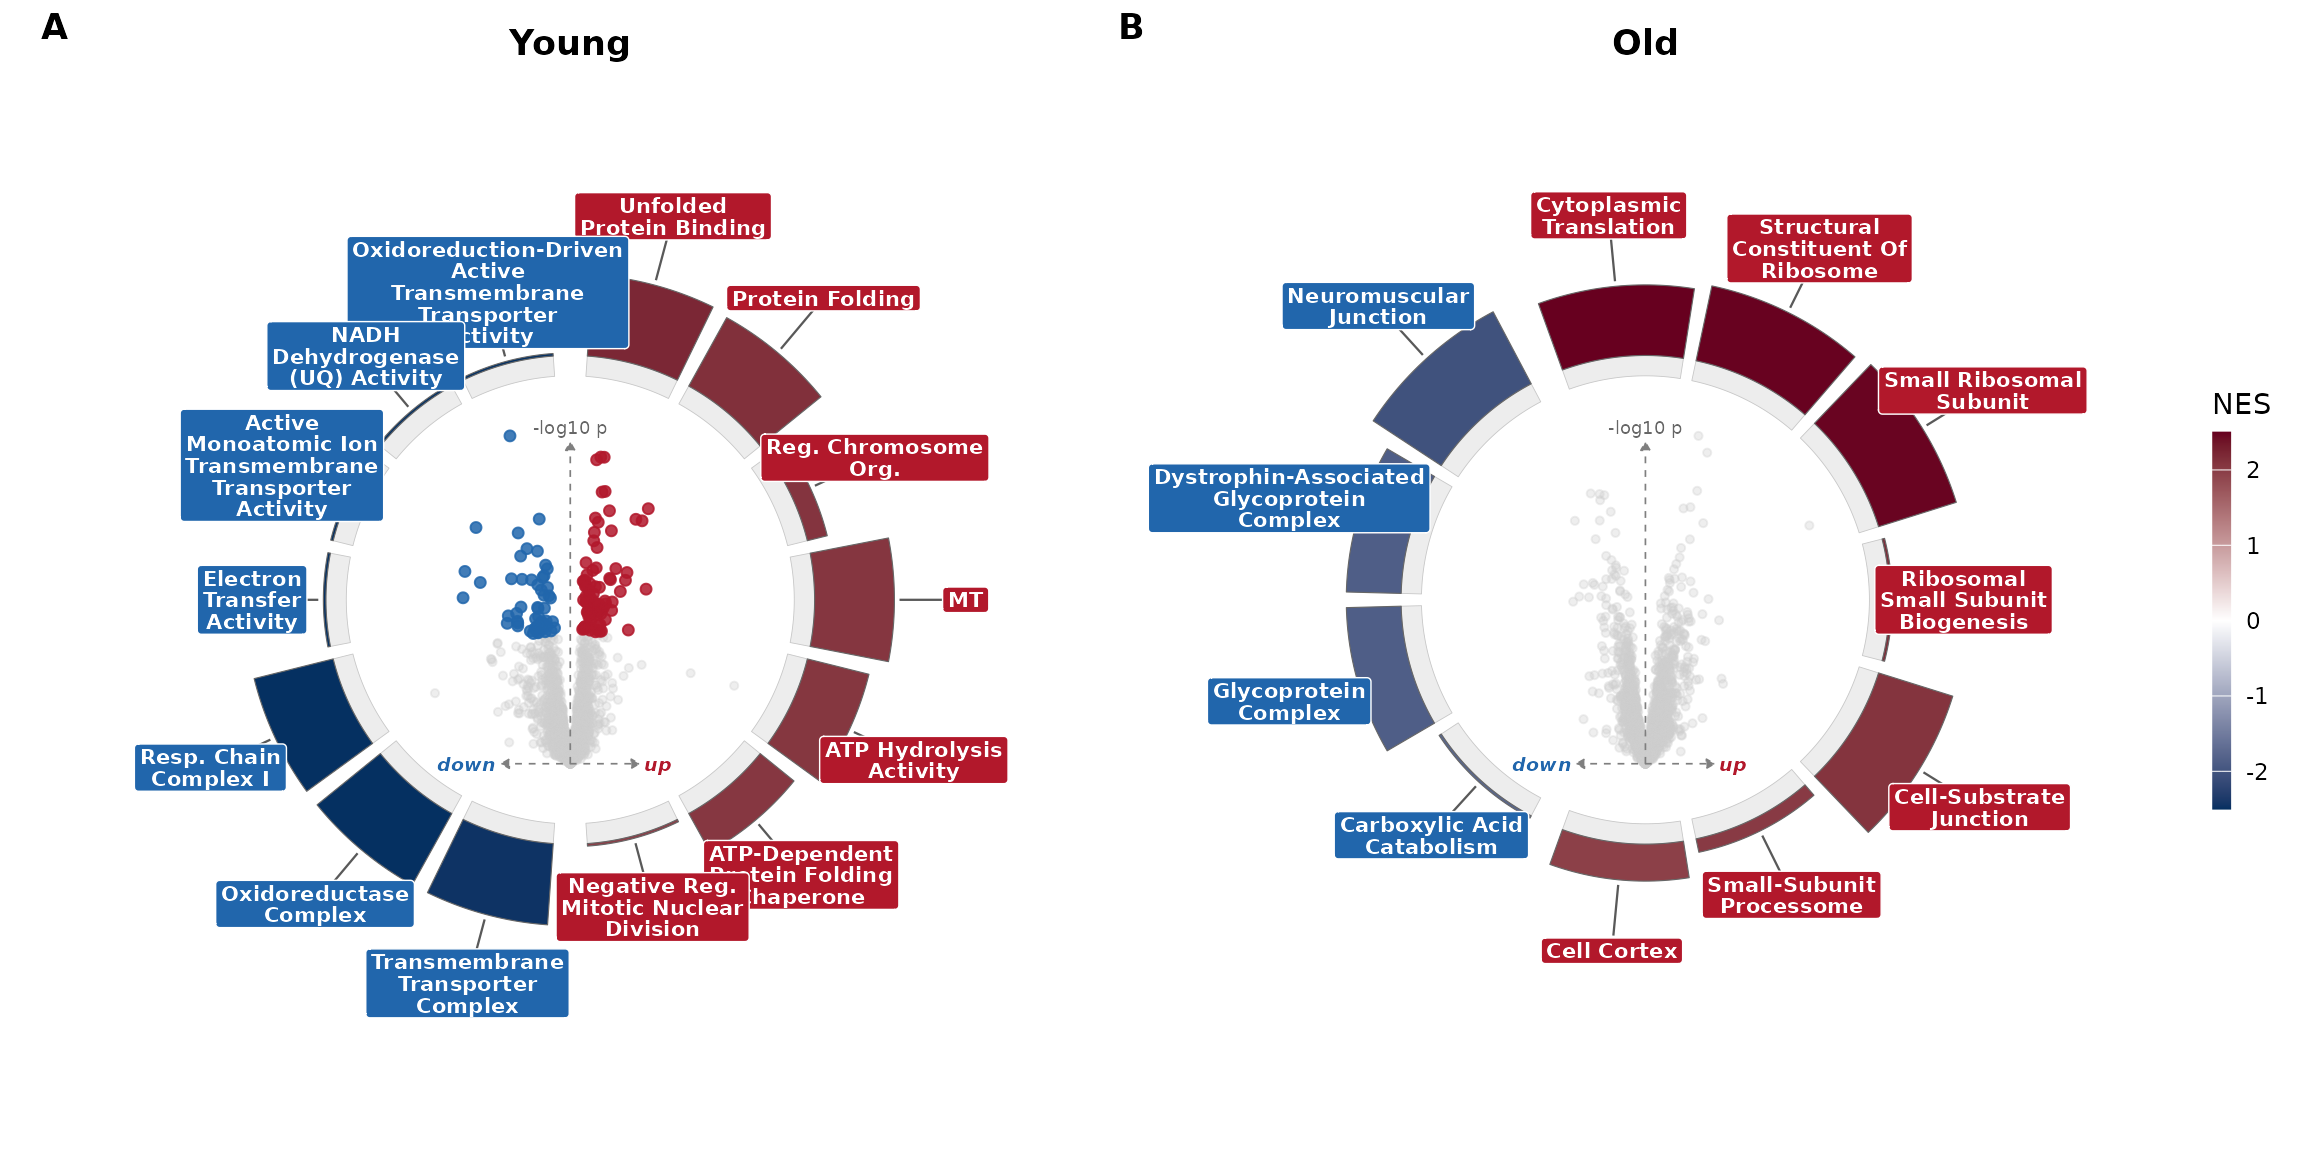
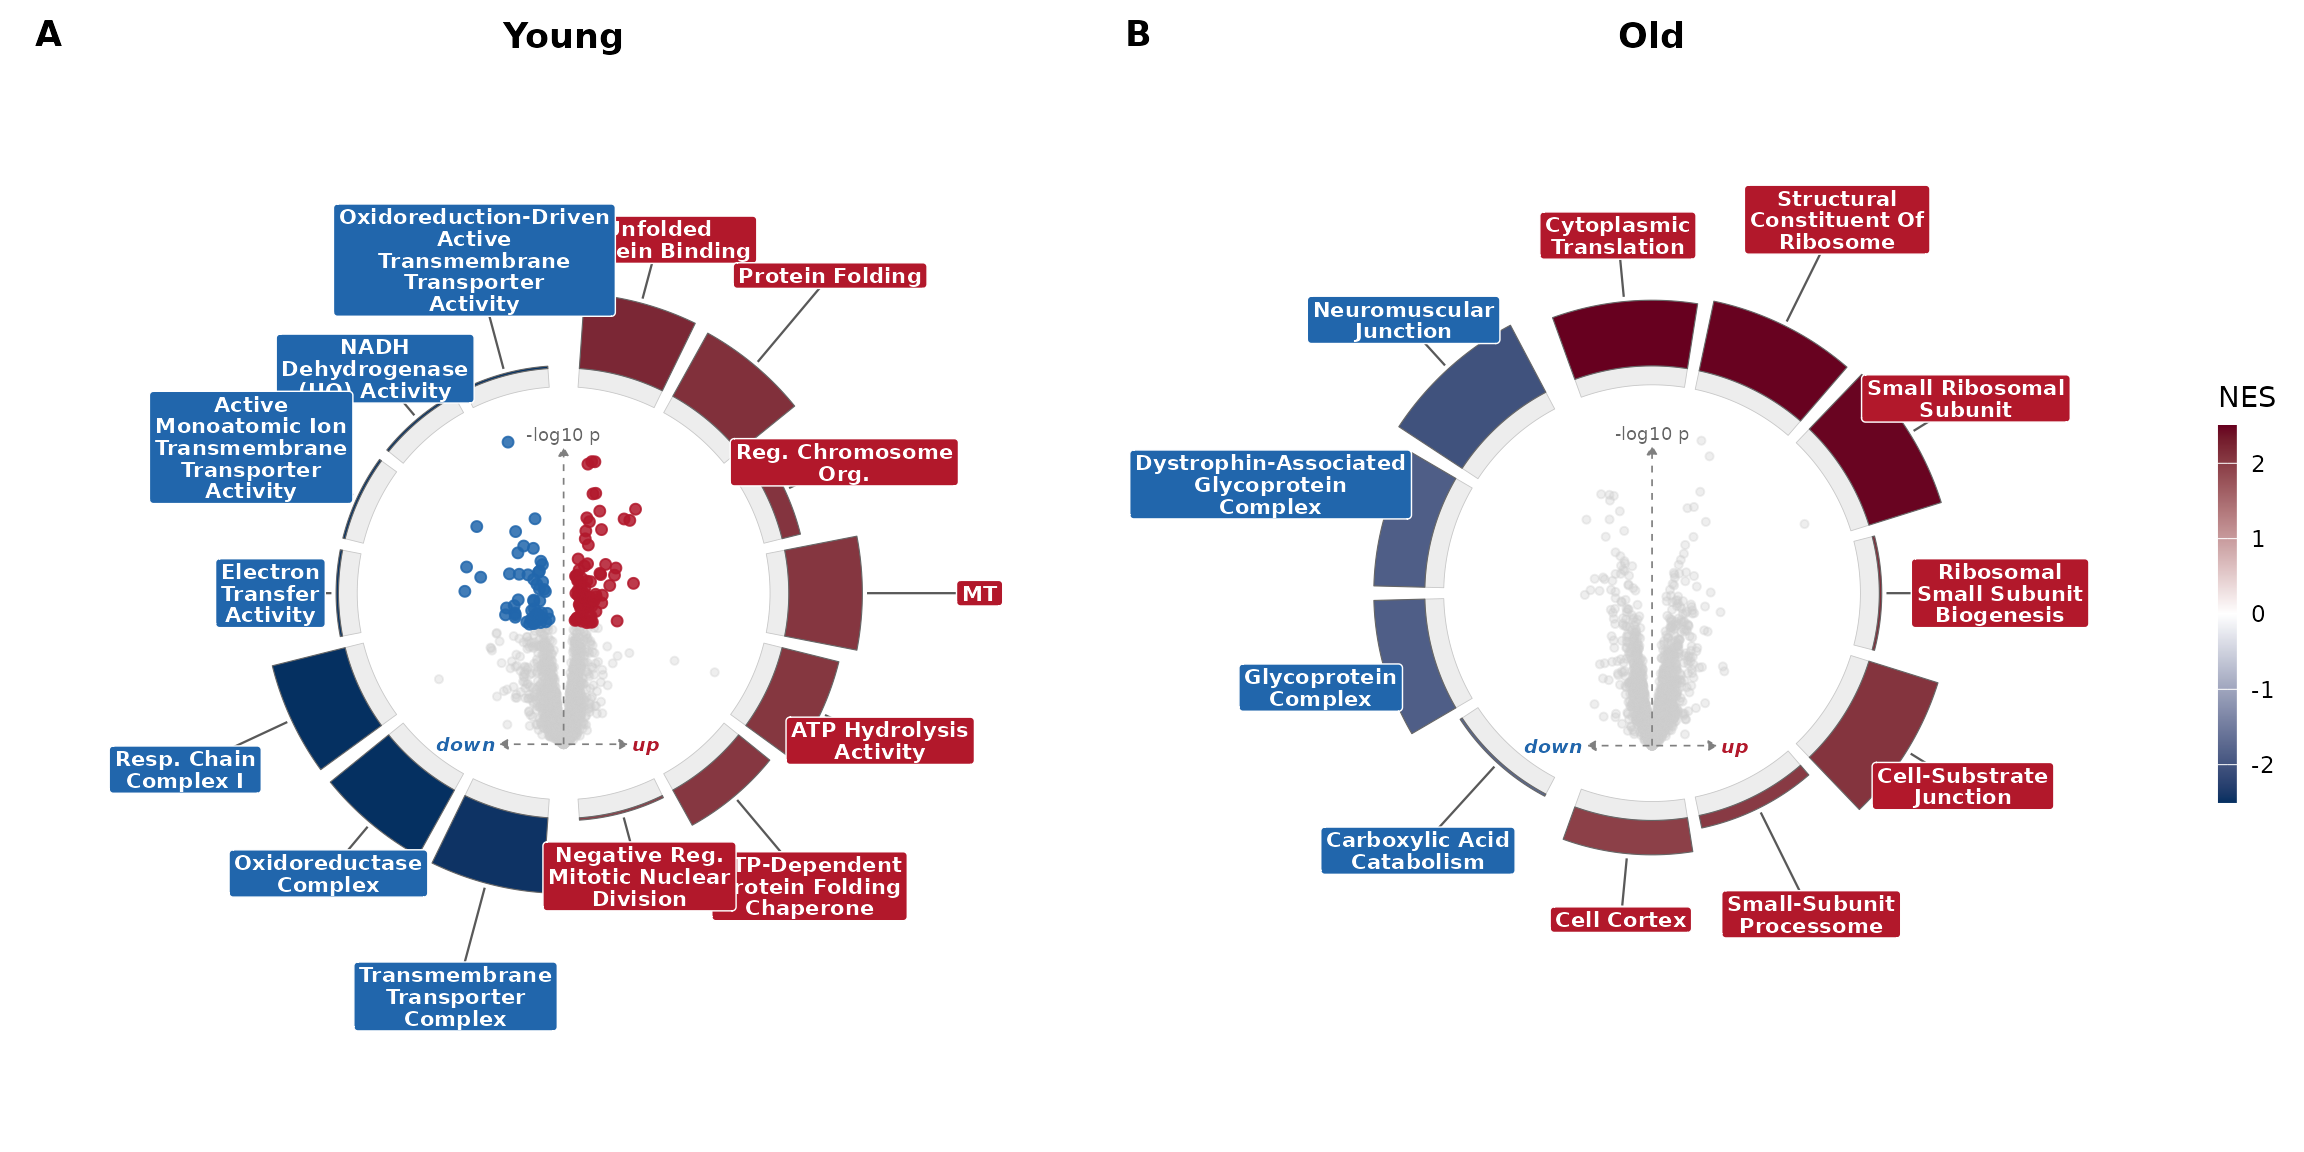
Deploying to gh-pages from @ Dustyn-T-Lewis/enrichVolcano@cf5d908692274f5671aea9d494acd05c800c321e 🚀

diff --git a/reference/volcano_ring.html b/reference/volcano_ring.html
@@ -70,6 +70,7 @@ arcs to each pathway's leading-edge genes inside the volcano.</p>
 <span>  subtitle <span class="op">=</span> <span class="cn">NULL</span>,</span>
 <span>  tag <span class="op">=</span> <span class="cn">NULL</span>,</span>
 <span>  volcano_radius <span class="op">=</span> <span class="fl">3.5</span>,</span>
+<span>  ring_radius <span class="op">=</span> <span class="fl">4.4</span>,</span>
 <span>  disc_color <span class="op">=</span> <span class="cn">NULL</span>,</span>
 <span>  nes_limits <span class="op">=</span> <span class="cn">NULL</span>,</span>
 <span>  magnitude <span class="op">=</span> <span class="fu"><a href="https://rdrr.io/r/base/c.html" class="external-link">c</a></span><span class="op">(</span><span class="st">"neg_log_padj"</span>, <span class="st">"size"</span><span class="op">)</span>,</span>
@@ -135,6 +136,11 @@ when <code>abs(logFC) &gt;= logfc_threshold</code> as well as significant.</p></
 
 <dt id="arg-volcano-radius">volcano_radius<a class="anchor" aria-label="anchor" href="#arg-volcano-radius"></a></dt>
 <dd><p>Inner volcano radius.</p></dd>
+
+
+<dt id="arg-ring-radius">ring_radius<a class="anchor" aria-label="anchor" href="#arg-ring-radius"></a></dt>
+<dd><p>Inner radius of the enrichment ring (default 4.4). Raise it
+to push the ring further out from the volcano / enlarge the ring.</p></dd>
 
 
 <dt id="arg-disc-color">disc_color<a class="anchor" aria-label="anchor" href="#arg-disc-color"></a></dt>

diff --git a/reference/volcano_ring.md b/reference/volcano_ring.md
@@ -25,6 +25,7 @@ volcano_ring(
   subtitle = NULL,
   tag = NULL,
   volcano_radius = 3.5,
+  ring_radius = 4.4,
   disc_color = NULL,
   nes_limits = NULL,
   magnitude = c("neg_log_padj", "size"),
@@ -89,6 +90,11 @@ volcano_ring(
 - volcano_radius:
 
   Inner volcano radius.
+
+- ring_radius:
+
+  Inner radius of the enrichment ring (default 4.4). Raise it to push
+  the ring further out from the volcano / enlarge the ring.
 
 - disc_color:
 
